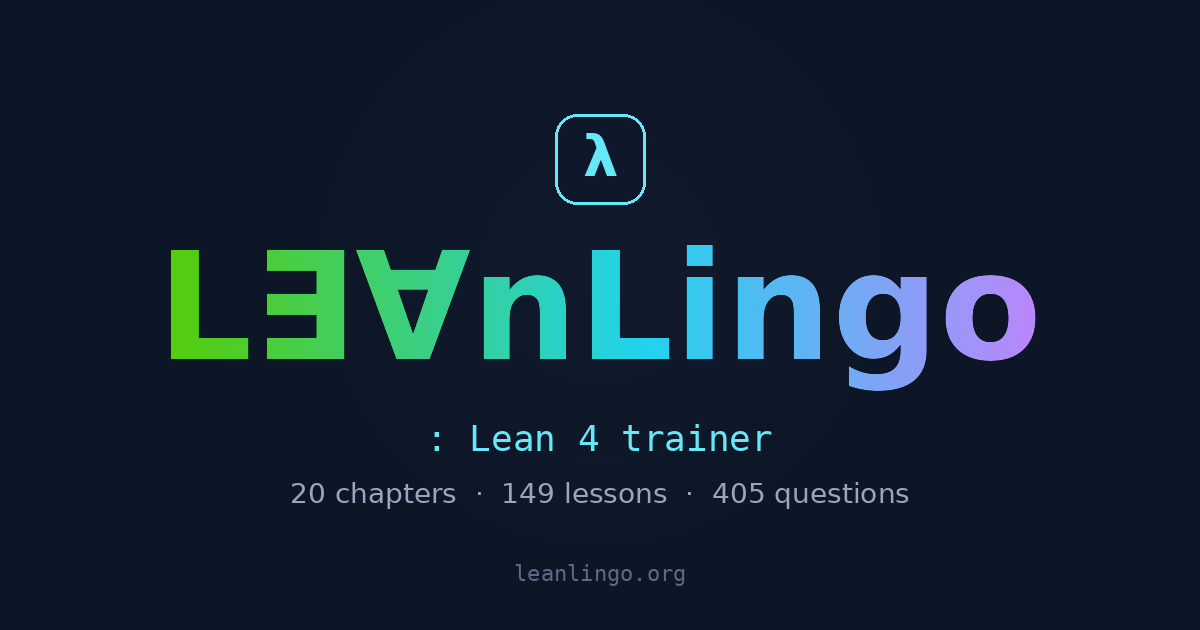
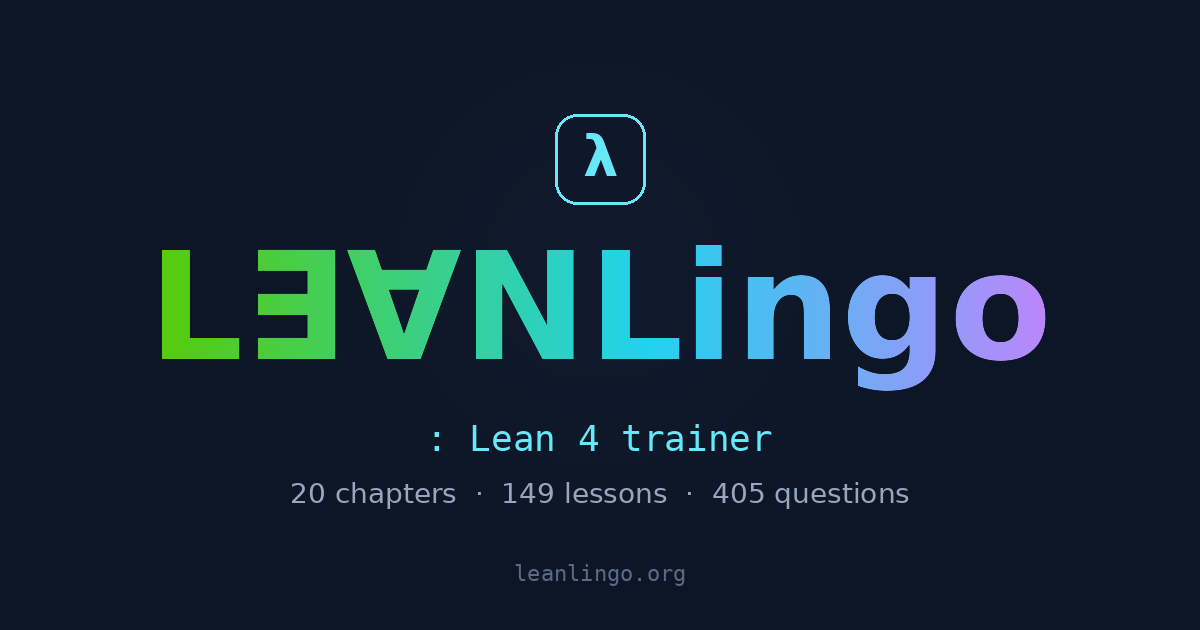
Wordmark: capitalize the N to match official LEAN styling
The Lean 4 wordmark on lean-lang.org / leodemoura.github.io is "LEAN"
in all caps. Matching that for the "Lean" half of the LeanLingo
wordmark, while keeping "Lingo" in camelCase to preserve the
LeanLingo identity:

  L∃∀nLingo  →  L∃∀NLingo

Updated both the home page <h1> and the OG card generator
(scripts/gen-og.py), and regenerated public/og.png.

aria-label stays "LeanLingo" so screen readers still announce the
brand the way it's spoken.

diff --git a/src/routes/WorldsList.tsx b/src/routes/WorldsList.tsx
@@ -28,7 +28,7 @@ export default function WorldsList() {
                     <span aria-hidden="true">L</span>
                     <span aria-hidden="true" className="ll-glyph-quant">∃</span>
                     <span aria-hidden="true" className="ll-glyph-quant">∀</span>
-                    <span aria-hidden="true">nLingo</span>
+                    <span aria-hidden="true">NLingo</span>
                 </h1>
                 <div className="ll-home-type">
                     <span className="ll-mono-dim">:</span>{' '}

diff --git a/scripts/gen-og.py b/scripts/gen-og.py
@@ -120,7 +120,10 @@ def main():
 
     # 2. Wordmark L∃∀nLingo in the gradient.
     wordmark_font = ImageFont.truetype(FONT_BOLD, 150)
-    word = gradient_text("L∃∀nLingo", wordmark_font)
+    # "LEAN" all-caps (with the quantifier substitutions for E and A) matches
+    # the official lean-lang.org wordmark; "Lingo" stays camelCase as the
+    # LeanLingo identity.
+    word = gradient_text("L∃∀NLingo", wordmark_font)
     wx = (W - word.width) // 2
     wy = chip_y + chip_size + 32
     img.paste(word, (wx, wy), word)